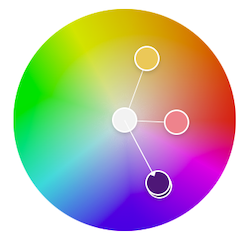
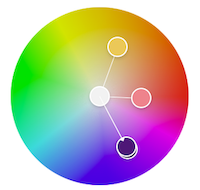
trying to fix image sizes.

diff --git a/themes/winter/scss/analysis.scss b/themes/winter/scss/analysis.scss
@@ -43,13 +43,13 @@
       align-items: center;
       justify-content: center;
       text-decoration: none;
-    
+
       .icon {
         height: 1em;
         width: 1em;
         margin-right: 0.5rem;
       }
-    
+
       i {
         margin-right: 2rem;
       }
@@ -59,11 +59,15 @@
       font-weight: 500;
     }
 
+    .company-snaps {
+      display: flex;
+      flex-direction: row;
+    }
+
     .snapshot {
-      height: 150px;
-      width: auto;
       cursor: pointer;
       transition: transform 0.3s ease;
+      margin-top: 2em;
       margin-right: 3em;
       border-radius: 5px;
 
@@ -94,13 +98,13 @@
       td {
         padding: 0.2em;
         border-bottom: 1px solid $font-color;
-      }    
-        
+      }
+
     }
   }
 
 
-  
+
 
   h3 {
     text-decoration: underline;

diff --git a/themes/winter/css/style-dark.css b/themes/winter/css/style-dark.css
@@ -6938,11 +6938,14 @@ pre code {
 .analysis-spec .analysis-content .link {
   font-weight: 500;
 }
+.analysis-spec .analysis-content .company-snaps {
+  display: flex;
+  flex-direction: row;
+}
 .analysis-spec .analysis-content .snapshot {
-  height: 150px;
-  width: auto;
   cursor: pointer;
   transition: transform 0.3s ease;
+  margin-top: 2em;
   margin-right: 3em;
   border-radius: 5px;
 }

diff --git a/themes/winter/css/style.css b/themes/winter/css/style.css
@@ -6826,11 +6826,14 @@ pre code {
 .analysis-spec .analysis-content .link {
   font-weight: 500;
 }
+.analysis-spec .analysis-content .company-snaps {
+  display: flex;
+  flex-direction: row;
+}
 .analysis-spec .analysis-content .snapshot {
-  height: 150px;
-  width: auto;
   cursor: pointer;
   transition: transform 0.3s ease;
+  margin-top: 2em;
   margin-right: 3em;
   border-radius: 5px;
 }

diff --git a/content/analysis/01_colors.md b/content/analysis/01_colors.md
@@ -44,9 +44,10 @@ Jag skulle tro att Ikea vill förmedla dels något lättillgängligt och stabilt
 
 Ikea använder sig av ett *triadiskt* färgschema där de blåa, gula och orange/röda nyanserna ligger fördelade över färghjulet som bilden nedan visar. Som komplement har de även neutrala nyanser i nästintill svart respektive vitt.
 
-
-![Ikea snap](%base_url%/image/ikea.png){.snapshot} 
-![Ikea color wheel](%base_url%/image/ikea-wheel.png){.snapshot} 
+<div class="company-snaps">
+<img src="%base_url%/image/ikea.png" alt="Ikea snap" class="snapshot" width="350" height="150">
+<img src="%base_url%/image/ikea-wheel.png" alt="Ikea color wheel" class="snapshot" width="150" height="150">
+</div>
 
 <div class="palette-div">
 <table class="palette-table ikea-palette">
@@ -92,8 +93,12 @@ Jag skulle inte bli förvånad om CSN har en ambition om att framstå som pålit
 
 CSN använder ett *analogt* färgschema där de lila, korallrosa samt gula färgerna ligger jämnt fördelade över färghjulet, vilket kan ses på bilden nedan.
 
-![Csn snap](%base_url%/image/csn.png){.snapshot} 
-![Csn color wheel](%base_url%/image/csn-wheel.png){.snapshot} 
+<div class="company-snaps">
+
+<img src="%base_url%/image/csn.png" alt="Csn snap" class="snapshot" width="350" height="150">
+<img src="%base_url%/image/csn-wheel.png" alt="Csn color wheel" class="snapshot" width="150" height="150">
+</div>
+
 
 <div class="palette-div">
 <table class="palette-table csn-palette">
@@ -140,8 +145,10 @@ både när det gäller typsnitt men även färger.
 Svt har ett *monokromatiskt* färgschema vilket utgår från en röd färg och även inkluderar framförallt två ljusare bakgrundsfärger samt en mörkare textfärger.  
 
 
-![Svt snap](%base_url%/image/svt.png){.snapshot} 
-![Svt color wheel](%base_url%/image/svt-wheel.png){.snapshot} 
+<div class="company-snaps">
+<img src="%base_url%/image/svt.png" alt="Svt snap" class="snapshot" width="250" height="150">
+<img src="%base_url%/image/svt-wheel.png" alt="Svt color wheel" class="snapshot" width="150" height="150">
+</div>
 
 <div class="palette-div">
 <table class="palette-table svt-palette">
